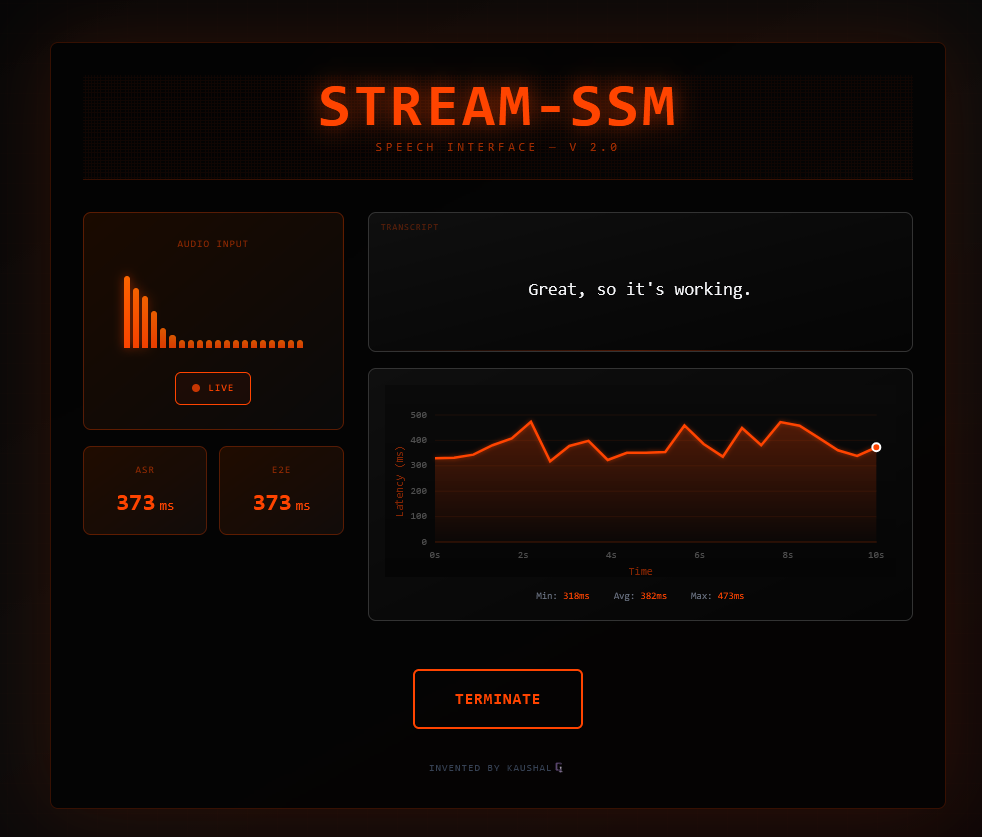
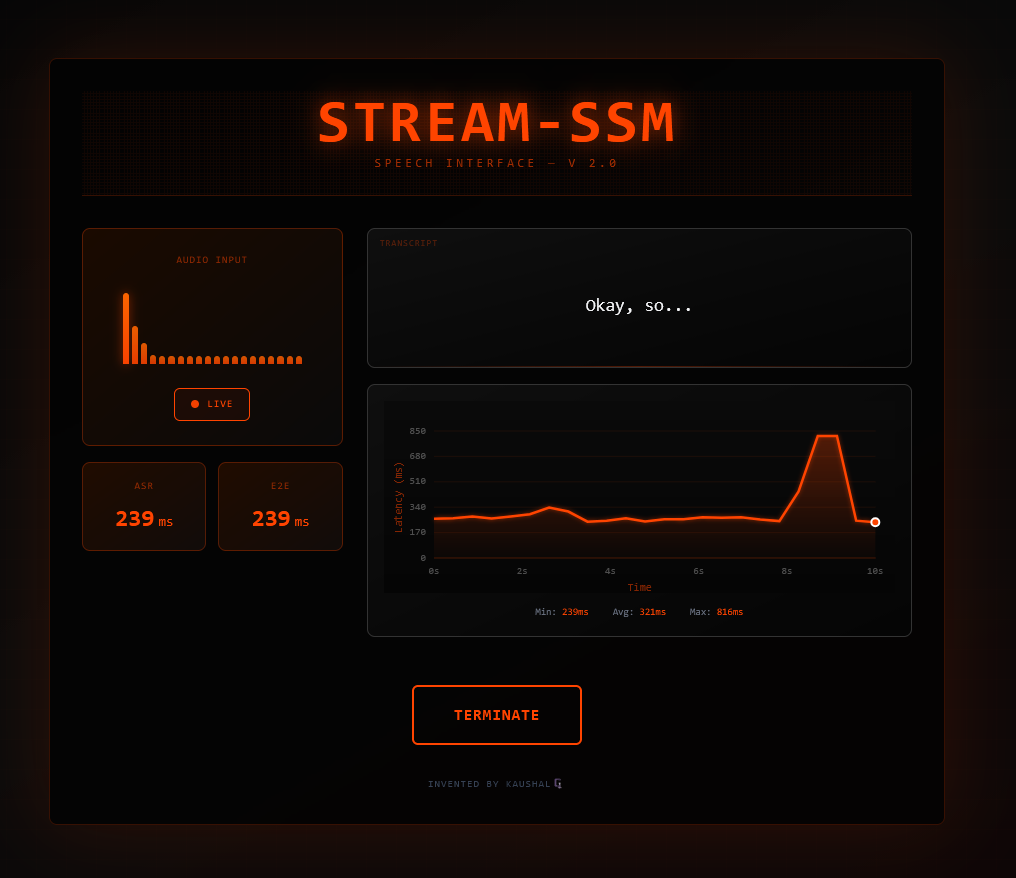
new_fixes_and_opt_modal_support

diff --git a/modal_app.py b/modal_app.py
@@ -1,0 +1,279 @@
+# Streaming Whisper STT on Modal (GPU / H100 build)
+# - Faster-Whisper on CUDA (float16 precision)
+# - WebSocket /ws for streaming 16-bit PCM audio
+# - Emits {"type": "partial"|"final", "asr_ms", "e2e_ms", "ttct_ms"}
+
+import asyncio
+import json
+import multiprocessing
+import os
+import time
+from collections import deque
+from typing import Deque, Optional
+
+import modal
+
+APP_NAME = "stream-ssm-whisper-gpu"
+app = modal.App(APP_NAME)
+
+# ---------- Controlled parallelism ----------
+NUM_CORES = multiprocessing.cpu_count()
+NUM_THREADS = max(1, NUM_CORES // 2)
+# ---------- Modal image ----------
+image = (
+    modal.Image.debian_slim(python_version="3.11")
+    .apt_install("ffmpeg", "build-essential")
+    .pip_install(
+        "torch==2.5.1+cu124",
+        "torchvision==0.20.1+cu124",
+        "torchaudio==2.5.1+cu124",
+        "fastapi==0.115.6",
+        "uvicorn==0.32.1",
+        "webrtcvad==2.0.10",
+        "numpy==2.1.3",
+        "faster-whisper==1.0.3",
+        "requests",
+        extra_options=["--extra-index-url", "https://download.pytorch.org/whl/cu124"],
+    )
+    .env(
+        {
+            "OMP_NUM_THREADS": str(NUM_THREADS),
+            "OPENBLAS_NUM_THREADS": str(NUM_THREADS),
+            "MKL_NUM_THREADS": str(NUM_THREADS),
+            "NUMEXPR_NUM_THREADS": str(NUM_THREADS),
+            "WHISPER_MODEL": os.environ.get("WHISPER_MODEL", "small.en"),
+            "WHISPER_COMPUTE_TYPE": "float16",
+        }
+    )
+)
+
+
+# ---------- Tunables ----------
+SAMPLE_RATE = 16000
+FRAME_MS = 20
+FRAME_BYTES = int(SAMPLE_RATE * FRAME_MS / 1000) * 2
+MAX_BUFFER_SEC = 12
+SILENCE_TIMEOUT_S = 0.35
+RETRANSCRIBE_EVERY_MS = 250
+CHUNK_SEC = 1.0
+OVERLAP_SEC = 0.15
+MIN_COMMIT_WORDS = 4
+MIN_PARTIAL_DELTA_CH = 3
+VAD_MODE = 2
+DISFLUENCIES = {"um", "uh", "erm", "hmm", "mm", "mmm", "uhh", "uhm"}
+
+# ============================================================
+
+@app.cls(image=image, gpu="h100", timeout=600)
+class WhisperSTT:
+    """GPU-accelerated streaming ASR (Whisper) with WebSocket endpoint."""
+
+    @modal.enter()
+    def _load(self):
+        """Load Faster-Whisper on GPU and initialize VAD."""
+        from faster_whisper import WhisperModel
+        import webrtcvad
+        import numpy as np
+        import torch
+
+        self.model_name = os.getenv("WHISPER_MODEL", "small.en")
+        self.compute_type = os.getenv("WHISPER_COMPUTE_TYPE", "float16")
+
+        device = "cuda" if torch.cuda.is_available() else "cpu"
+        print(f"🚀 Loading {self.model_name} ({self.compute_type}) on {device}...")
+        t0 = time.time()
+        self.model = WhisperModel(
+            self.model_name,
+            device=device,
+            compute_type=self.compute_type,
+        )
+        print(f"✅ Model loaded in {time.time() - t0:.2f}s")
+
+        # Warmup
+        try:
+            _ = self.model.transcribe(
+                np.zeros(int(0.5 * SAMPLE_RATE), np.float32),
+                language="en",
+                without_timestamps=True,
+            )
+            if device == "cuda":
+                torch.cuda.synchronize()
+            print("🔥 Warmed up model with 0.5 s dummy input.")
+        except Exception as e:
+            print("⚠ Warmup skipped:", e)
+
+        self.vad = webrtcvad.Vad(VAD_MODE)
+
+    # ---------- Utility helpers ----------
+    def _int16_to_float32(self, b: bytes):
+        import numpy as np
+        return np.frombuffer(b, np.int16).astype(np.float32) / 32768.0
+
+    def _take_tail_window_f32(self, ring: Deque[int]):
+        import numpy as np
+        if not ring:
+            return np.zeros((0,), dtype=np.float32)
+        pcm = self._int16_to_float32(bytes(ring))
+        max_len = int((CHUNK_SEC + OVERLAP_SEC) * SAMPLE_RATE)
+        if pcm.size > max_len:
+            pcm = pcm[-max_len:]
+        return pcm
+
+    def _common_prefix_words(self, a: str, b: str) -> str:
+        aw, bw = a.split(), b.split()
+        out = []
+        for x, y in zip(aw, bw):
+            if x == y:
+                out.append(x)
+            else:
+                break
+        return " ".join(out)
+
+    def _meaningful_delta(self, prev: str, curr: str) -> bool:
+        if not prev:
+            return bool(curr)
+        if abs(len(curr) - len(prev)) >= MIN_PARTIAL_DELTA_CH:
+            return True
+        if curr.endswith((".", "!", "?", "…", ":", ";", ",")):
+            return True
+        return False
+
+    def _transcribe_once(self, pcm_f32, prompt_text: str = "") -> str:
+        """One transcription pass."""
+        segs, _ = self.model.transcribe(
+            pcm_f32,
+            language="en",
+            without_timestamps=True,
+            initial_prompt=(prompt_text or None),
+        )
+        return "".join([s.text for s in segs]).strip()
+
+    # ---------- FastAPI WebSocket ----------
+    @modal.asgi_app()
+    def api(self):
+        """Expose FastAPI app with /health and /ws endpoints."""
+        from fastapi import FastAPI, WebSocket, WebSocketDisconnect
+        from fastapi.responses import JSONResponse
+
+        app = FastAPI()
+
+        @app.get("/health")
+        def health():
+            return JSONResponse({"status": "ok"})
+
+        @app.websocket("/ws")
+        async def ws_stream(ws: WebSocket):
+            await ws.accept()
+            print("🎧 WS connected")
+
+            ring: Deque[int] = deque(maxlen=int(SAMPLE_RATE * MAX_BUFFER_SEC) * 2)
+            transcript_lines = []
+            last_partial = ""
+            last_committed = ""
+            last_voice_t = last_transcribe_t = time.time()
+            speaking = False
+
+            try:
+                while True:
+                    data: Optional[bytes] = await ws.receive_bytes()
+                    now = time.time()
+                    ring.extend(data)
+
+                    if len(ring) < FRAME_BYTES:
+                        continue
+
+                    frame = bytes(list(ring)[-FRAME_BYTES:])
+                    is_voice = self.vad.is_speech(frame, SAMPLE_RATE)
+                    if is_voice:
+                        speaking = True
+                        last_voice_t = now
+
+                    # periodic partials
+                    if speaking and (now - last_transcribe_t) * 1000 >= RETRANSCRIBE_EVERY_MS:
+                        last_transcribe_t = now
+                        recv_t = now
+                        pcm = self._take_tail_window_f32(ring)
+                        prompt = last_committed[-300:]
+
+                        t0 = time.time()
+                        curr = self._transcribe_once(pcm, prompt)
+                        t1 = time.time()
+
+                        asr_ms = int((t1 - t0) * 1000)
+                        e2e_ms = int((t1 - recv_t) * 1000)
+
+                        prefix = self._common_prefix_words(last_partial, curr)
+                        if len(prefix.split()) >= MIN_COMMIT_WORDS:
+                            if not last_committed.endswith(prefix):
+                                last_committed = (last_committed + " " + prefix).strip()
+
+                        if curr.strip().lower() in DISFLUENCIES:
+                            continue
+
+                        if curr and self._meaningful_delta(last_partial, curr):
+                            last_partial = curr
+                            await ws.send_text(
+                                json.dumps(
+                                    {
+                                        "type": "partial",
+                                        "text": curr,
+                                        "asr_ms": asr_ms,
+                                        "e2e_ms": e2e_ms,
+                                    }
+                                )
+                            )
+
+                    # silence → finalize
+                    if speaking and (now - last_voice_t) >= SILENCE_TIMEOUT_S:
+                        speaking = False
+                        recv_t = now
+                        pcm = self._take_tail_window_f32(ring)
+                        prompt = last_committed[-300:]
+
+                        t0 = time.time()
+                        final_text = self._transcribe_once(pcm, prompt)
+                        t1 = time.time()
+
+                        asr_ms = int((t1 - t0) * 1000)
+                        e2e_ms = int((t1 - recv_t) * 1000)
+                        ttct_ms = int((t1 - last_voice_t) * 1000)
+
+                        if final_text.strip().lower() in DISFLUENCIES:
+                            final_text = ""
+
+                        if final_text:
+                            transcript_lines.append(final_text)
+                            last_committed = (last_committed + " " + final_text).strip()
+                            last_partial = ""
+
+                            await ws.send_text(
+                                json.dumps(
+                                    {
+                                        "type": "final",
+                                        "text": final_text,
+                                        "lines": transcript_lines[-6:],
+                                        "asr_ms": asr_ms,
+                                        "e2e_ms": e2e_ms,
+                                        "ttct_ms": ttct_ms,
+                                    }
+                                )
+                            )
+
+                        ring.clear()
+
+            except WebSocketDisconnect:
+                print("🔌 WS disconnected")
+                try:
+                    await ws.close()
+                except Exception:
+                    pass
+            except Exception as e:
+                print("⚠ WS error:", e)
+                try:
+                    await ws.close(code=1011)
+                except Exception:
+                    pass
+
+            return app
+
+        return app
